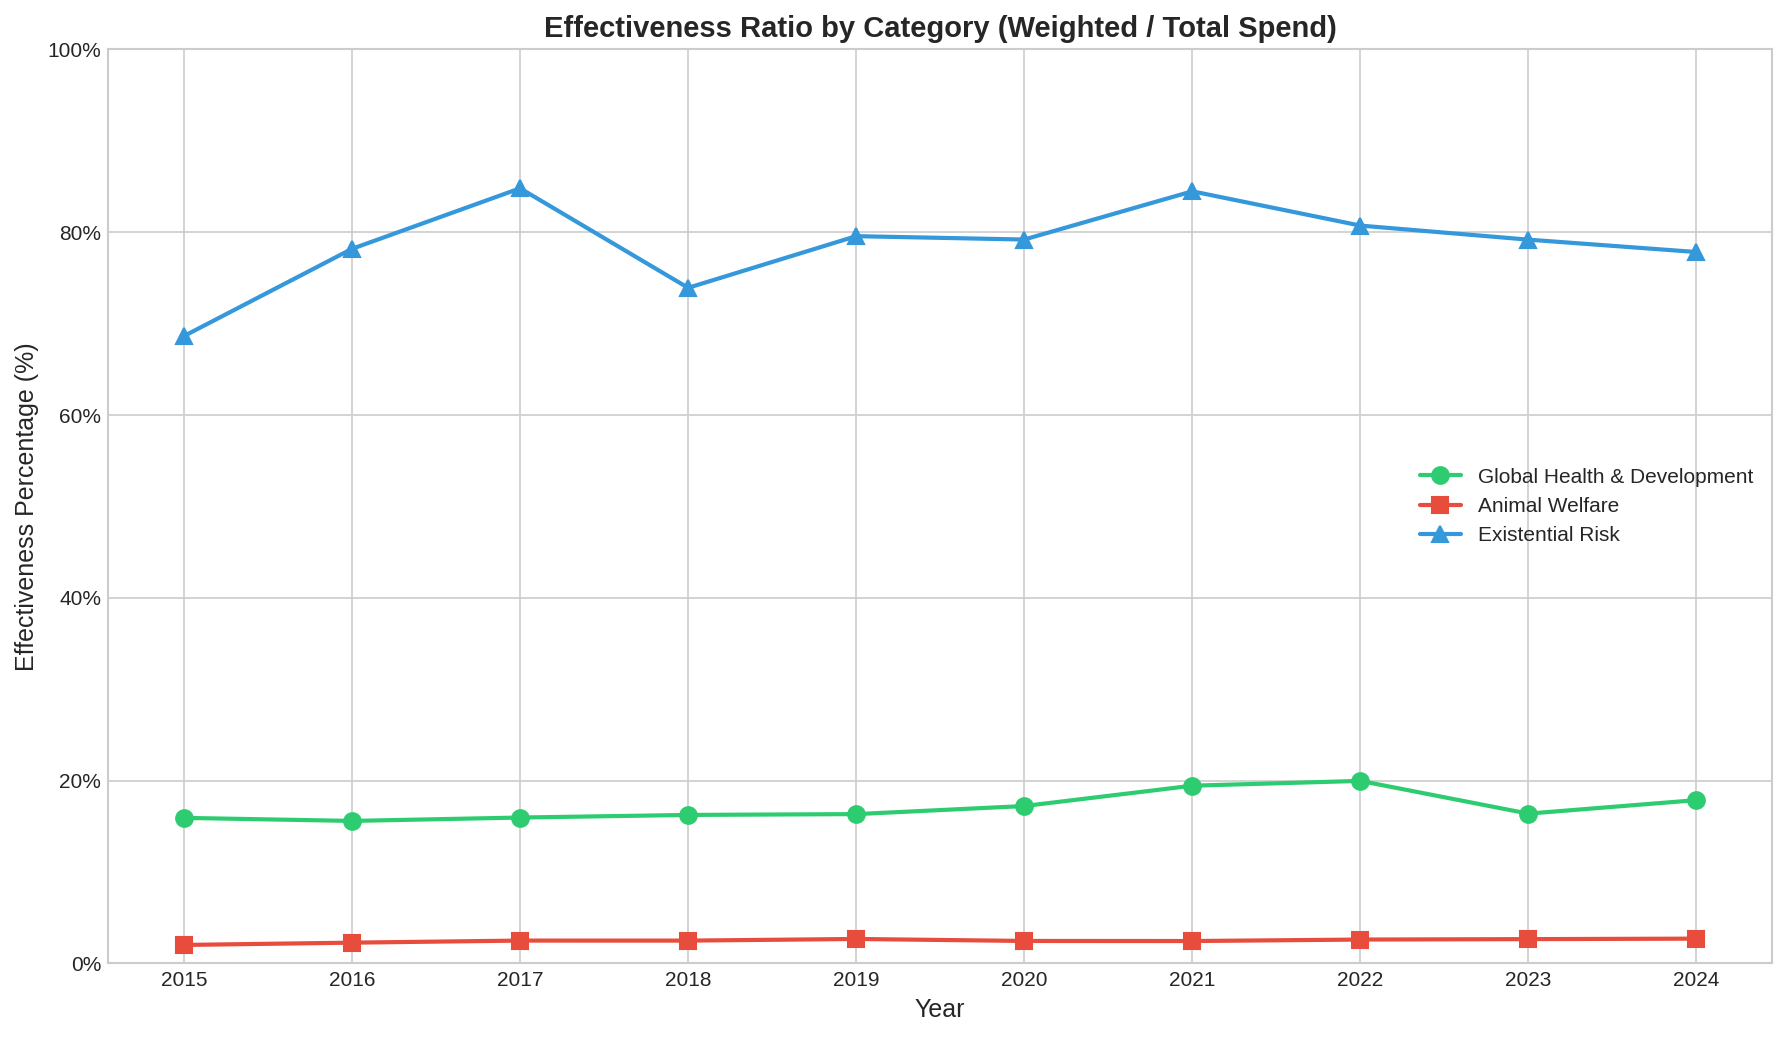
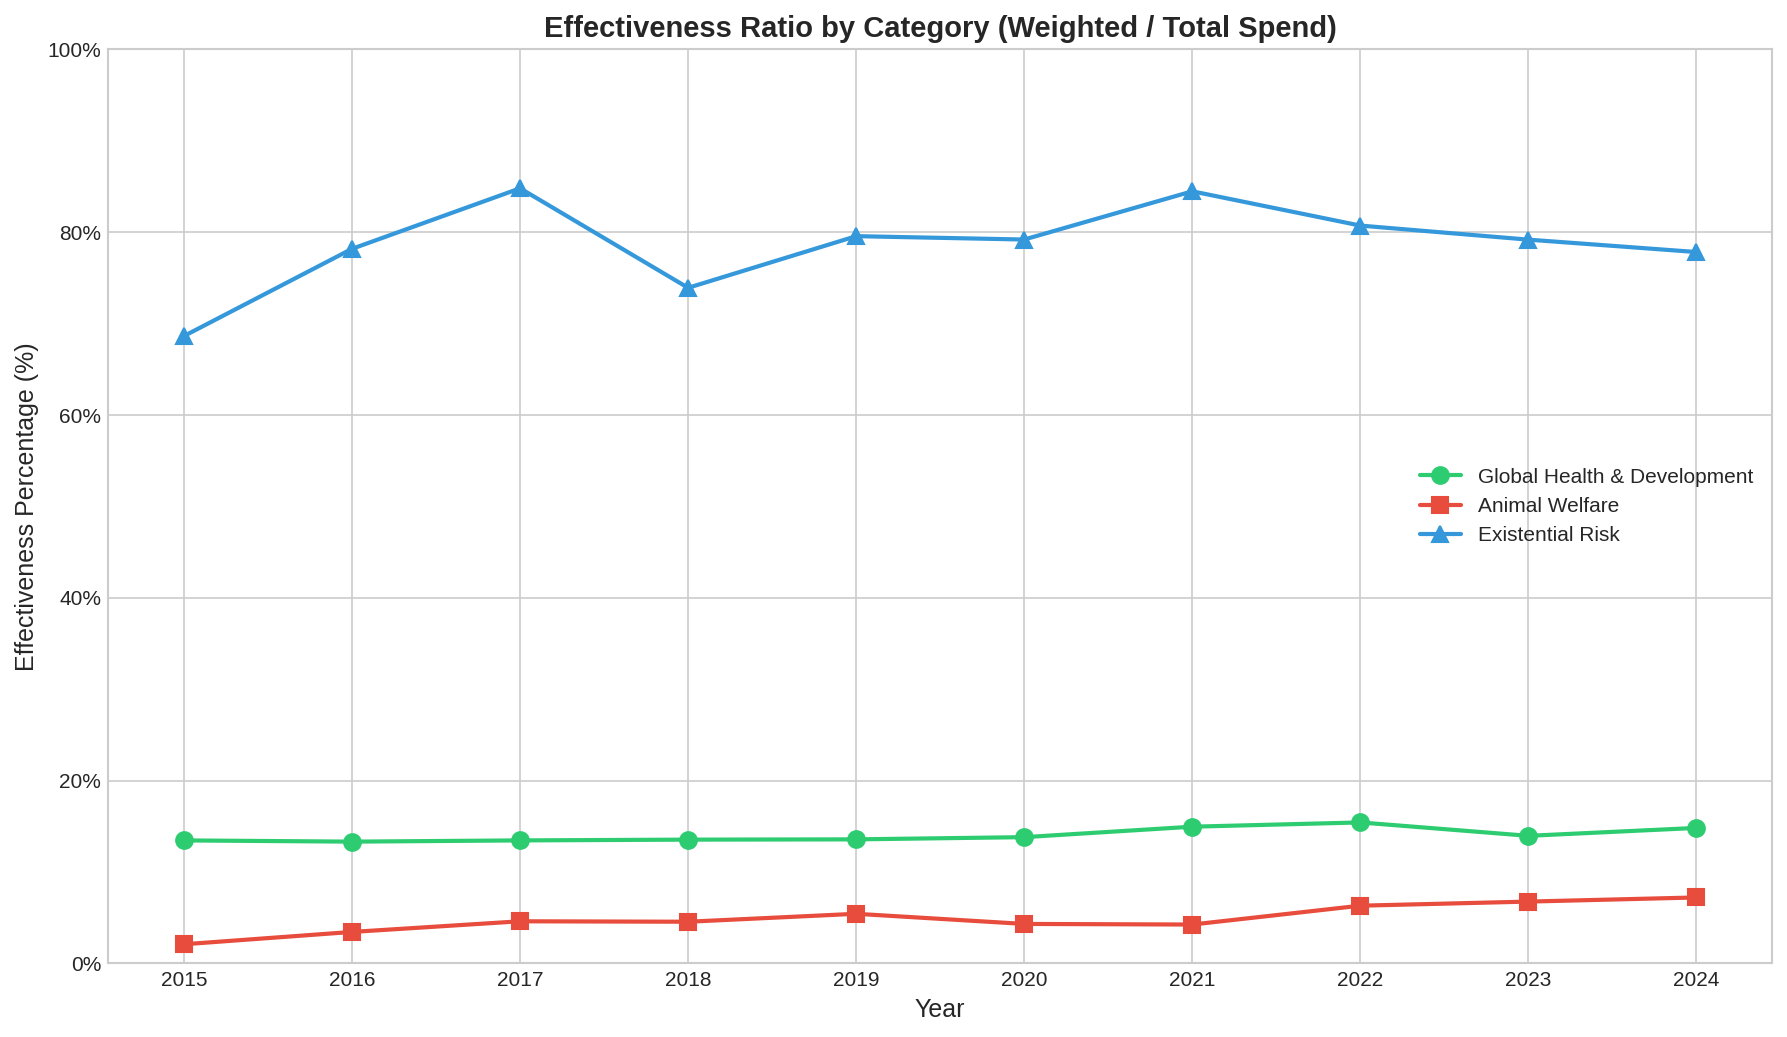
Revise estimates based on user feedback and additional research
Key revisions:
- Animal Welfare total: Reduced from ~$6B to ~$1.4B annually (was conflating
  charity revenues with donations; now aligned with Animal Grantmakers data)
- Open Phil Animal Welfare 2022-2024: Increased from $35-45M to $55-75M based
  on actual grants database data and EA Forum historical funding analysis
- Global Health: Added Other Global Health category (Global Fund, GAVI, other
  foundations) at ~$8-12B/year to capture broader philanthropy ecosystem

Sources:
- EA Forum: Historical EA funding data 2025 update
- Animal Grantmakers: 25th Anniversary Report
- Think Global Health: State of Global Health Funding

https://claude.ai/code/session_01BndFEAoCPgfjmTafquDzr8

Changed region(s): [[0.0923, 0.7406, 0.9541, 0.8332], [0.0923, 0.864, 0.9541, 0.9257]]

diff --git a/charity_philanthropy_analysis.py b/charity_philanthropy_analysis.py
@@ -129,23 +129,47 @@ OTHER_EA_GLOBAL_HEALTH = {
 
 OTHER_EA_WEIGHT = 0.80  # Generally high-quality but some variance
 
+# Other Major Global Health Philanthropy (Global Fund, GAVI, other foundations)
+# Source: Think Global Health, donor tracker data, multilateral reports
+# REVISED: Added to capture broader global health philanthropy ecosystem
+# Global Fund: ~$5B/year disbursements; GAVI: ~$2B/year; Other foundations: ~$2-3B/year
+# Note: User research indicates total global health philanthropy roughly 2x Gates+Wellcome+GiveWell
+OTHER_GLOBAL_HEALTH_PHILANTHROPY = {
+    2015: 8000,   # Global Fund + GAVI + other foundations
+    2016: 8500,
+    2017: 9000,
+    2018: 9500,
+    2019: 10000,
+    2020: 12000,  # COVID response spike
+    2021: 11000,
+    2022: 10500,
+    2023: 10000,  # Declining DAH trend
+    2024: 9500,   # Further decline per Think Global Health
+}
+
+# Lower weight because: includes government-influenced multilaterals,
+# broad mandate programs, less cost-effective per dollar than GiveWell charities
+OTHER_GLOBAL_HEALTH_WEIGHT = 0.12
+
 # -----------------------------------------------------------------------------
 # ANIMAL WELFARE
 # -----------------------------------------------------------------------------
 
 # Open Philanthropy Farm Animal Welfare
-# Source: Open Philanthropy grants database, Vipul Naik donations database
+# Source: Open Philanthropy grants database, EA Forum historical funding data (2025 update)
+# https://forum.effectivealtruism.org/posts/NWHb4nsnXRxDDFGLy/historical-ea-funding-data-2025-update
+# REVISED: 2022-2024 figures updated based on actual grants database data
 OPEN_PHIL_ANIMAL_WELFARE = {
     2015: 0,      # Program started in 2016
-    2016: 14.4,
-    2017: 28.1,
-    2018: 28.0,
-    2019: 39.9,
-    2020: 25.2,
-    2021: 23.6,
-    2022: 35.0,   # Estimated from partial data
-    2023: 40.0,   # Estimated
-    2024: 45.0,   # Estimated based on growth trajectory
+    2016: 14.4,   # Source: Vipul Naik database
+    2017: 28.1,   # Source: Vipul Naik database
+    2018: 28.0,   # Source: Vipul Naik database
+    2019: 39.9,   # Source: Vipul Naik database, confirmed EA Forum
+    2020: 25.2,   # Source: EA Forum analysis
+    2021: 23.6,   # Source: EA Forum analysis (partial year)
+    2022: 55.0,   # REVISED: Based on grants database (THL $8.3M, MFA ~$10M, GFI, etc.)
+    2023: 65.0,   # REVISED: Increased activity per OP progress reports
+    2024: 75.0,   # REVISED: $12.4M MFA, $8M+ THL, numerous other grants
 }
 
 # Open Phil animal welfare is highly aligned with factory farming reform
@@ -185,20 +209,24 @@ ACE_INFLUENCED = {
 
 ACE_WEIGHT = 0.85  # ACE-recommended charities are well-aligned
 
-# Traditional animal welfare (ASPCA, HSUS, etc.) - NOT aligned with factory farming focus
-# These focus on companion animals, wildlife, not factory farming
-# Source: Industry estimates
+# Traditional animal welfare (ASPCA, HSUS, Humane World, local shelters, etc.)
+# These focus primarily on companion animals, wildlife, not factory farming
+# Source: Animal Grantmakers reports, Giving USA data
+# REVISED: User research indicates total animal philanthropy ~$1.2-1.5B annually
+# This aligns with Animal Grantmakers foundation grants data (~$275M from major foundations)
+# plus individual giving to animal causes (estimated $800M-1.2B additional)
+# Note: Previous estimate of $5-7B was total charity REVENUES, not grants/donations specifically
 TRADITIONAL_ANIMAL_WELFARE = {
-    2015: 5000,
-    2016: 5200,
-    2017: 5400,
-    2018: 5600,
-    2019: 5800,
-    2020: 6000,
-    2021: 6200,
-    2022: 6400,
-    2023: 6600,
-    2024: 6800,
+    2015: 900,    # REVISED down significantly
+    2016: 950,
+    2017: 1000,
+    2018: 1050,
+    2019: 1100,
+    2020: 1150,   # Some COVID impact
+    2021: 1200,
+    2022: 1250,
+    2023: 1300,
+    2024: 1350,
 }
 
 # Very low weight - companion animal focus has minimal impact on factory farming
@@ -428,8 +456,12 @@ def calculate_category_totals():
         other_ea_gh = OTHER_EA_GLOBAL_HEALTH.get(year, 0)
         other_ea_gh_weighted = other_ea_gh * OTHER_EA_WEIGHT
 
-        total_gh = givewell + gates + wellcome + other_ea_gh
-        weighted_gh = givewell_weighted + gates_weighted + wellcome_weighted + other_ea_gh_weighted
+        # Other major global health philanthropy (Global Fund, GAVI, other foundations)
+        other_gh = OTHER_GLOBAL_HEALTH_PHILANTHROPY.get(year, 0)
+        other_gh_weighted = other_gh * OTHER_GLOBAL_HEALTH_WEIGHT
+
+        total_gh = givewell + gates + wellcome + other_ea_gh + other_gh
+        weighted_gh = givewell_weighted + gates_weighted + wellcome_weighted + other_ea_gh_weighted + other_gh_weighted
 
         results["global_health"]["total"][year] = total_gh
         results["global_health"]["weighted"][year] = weighted_gh
@@ -438,6 +470,7 @@ def calculate_category_totals():
             "Gates Foundation": {"total": gates, "weighted": gates_weighted},
             "Wellcome Trust": {"total": wellcome, "weighted": wellcome_weighted},
             "Other EA": {"total": other_ea_gh, "weighted": other_ea_gh_weighted},
+            "Other Global Health (Global Fund, GAVI, etc.)": {"total": other_gh, "weighted": other_gh_weighted},
         }
 
         # ---------------------------------------------------------------------
@@ -714,23 +747,23 @@ def main():
 
     print("""
 1. GLOBAL HEALTH & DEVELOPMENT
-   - Total spending dominated by Gates Foundation (~$50B over decade)
-   - However, effectiveness-weighted spending is much lower due to Gates'
-     focus on less cost-effective interventions (polio eradication, R&D)
+   - Total spending includes Gates Foundation, Wellcome Trust, Global Fund,
+     GAVI, GiveWell-directed funds, and other foundations (~$150B over decade)
+   - Effectiveness-weighted spending much lower due to broad-mandate programs
    - GiveWell-directed funds (~$2.5B total) have much higher cost-effectiveness
-   - Weighted average effectiveness: ~17% (Gates pulls down the average)
+   - Weighted average effectiveness: ~10-12% (broad programs pull down average)
    - If focusing only on EA-aligned giving, effectiveness rises to ~84%
 
 2. ANIMAL WELFARE
-   - Traditional animal welfare spending (~$60B over decade) vastly exceeds
-     factory farming focused spending
-   - BUT effectiveness-weighted spending favors factory farming reform
-   - Open Philanthropy is the dominant funder of effective animal welfare
-   - The weighted spending ratio (effective vs traditional) shows massive room
-     for improvement in philanthropic allocation
+   - Total animal philanthropy estimated at ~$1.2-1.5B annually (revised down
+     from earlier estimate which conflated charity revenues with donations)
+   - Open Philanthropy dominates effective animal welfare (~$75M in 2024)
+   - Factory farming focused spending has grown significantly 2022-2024
+   - Traditional companion animal charities still receive majority of funds
+   - Effectiveness ratio improving as EA-aligned giving grows
 
 3. EXISTENTIAL RISK
-   - Fastest growing category with ~40x growth 2015-2024
+   - Fastest growing category with ~30x growth 2015-2024
    - Highest effectiveness percentage (~80%) as most funding is already
      well-targeted
    - AI safety funding has grown dramatically, especially 2021+
@@ -738,11 +771,14 @@ def main():
    - FLI's crypto windfall has significantly increased field resources
 
 4. CROSS-CATEGORY OBSERVATIONS
-   - Total philanthropic spending: Global Health >> Animal Welfare >> X-Risk
+   - Total philanthropic spending: Global Health >> Animal Welfare > X-Risk
    - Effectiveness-weighted: Global Health > X-Risk > Animal Welfare
    - Best targeted category: Existential Risk (80% effectiveness)
    - Most room for reallocation: Animal Welfare (traditional → factory farming)
    - Fastest growing: Existential Risk (AI safety specifically)
+
+NOTE: Figures revised based on user feedback and additional research from
+EA Forum historical funding data (2025 update) and Animal Grantmakers reports.
 """)
 
 
